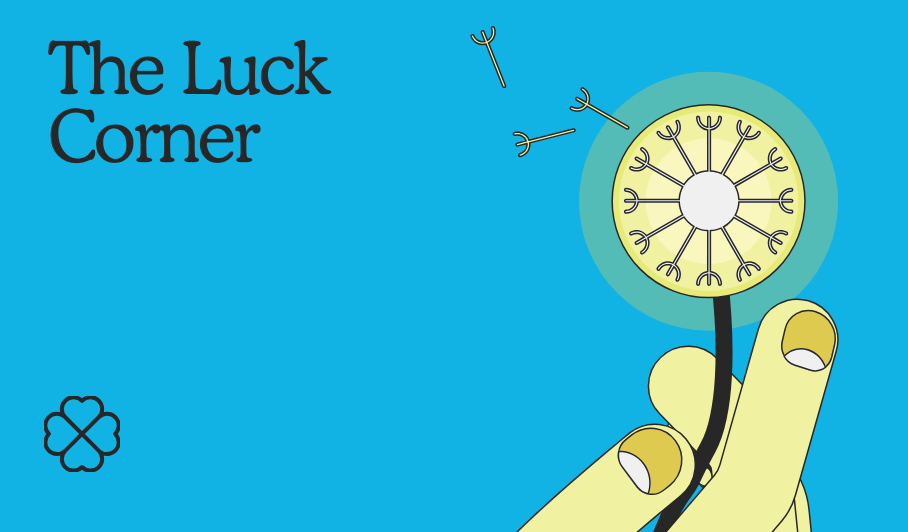
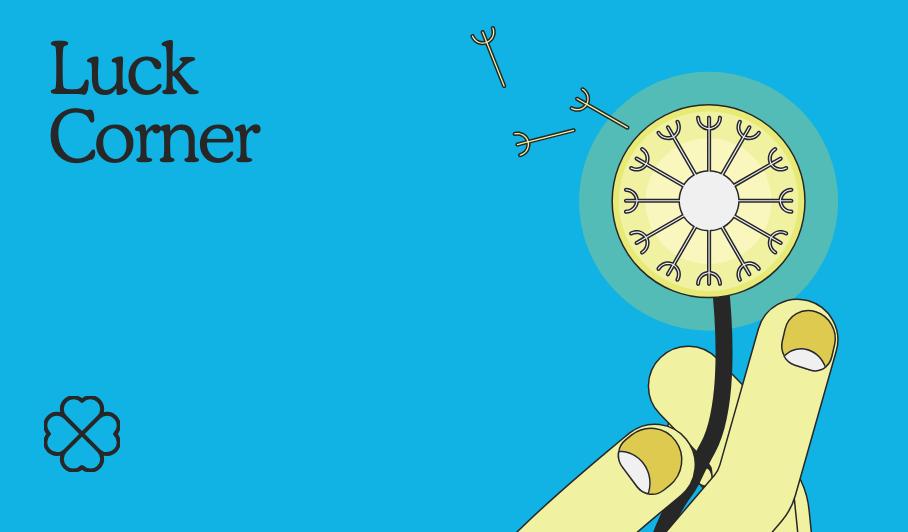
Rename to Luck Corner (no "The"): page title, share text and previews, settings, email

Changed region(s): [[0.0617, 0.0602, 0.37, 0.1805]]

diff --git a/index.html b/index.html
@@ -4,9 +4,9 @@
   <meta charset="utf-8">
   <meta name="viewport" content="width=device-width, initial-scale=1, viewport-fit=cover, user-scalable=no">
   <meta name="apple-mobile-web-app-capable" content="yes">
-  <meta name="apple-mobile-web-app-title" content="The Luck Corner">
+  <meta name="apple-mobile-web-app-title" content="Luck Corner">
   <meta name="theme-color" content="#f0f0f0">
-  <title>The Luck Corner</title>
+  <title>Luck Corner</title>
   <link rel="icon" href="favicon.svg" type="image/svg+xml">
   <link rel="icon" href="favicon-32.png" sizes="32x32" type="image/png">
   <link rel="apple-touch-icon" href="apple-touch-icon.png">
@@ -314,7 +314,7 @@
         <p class="settings--label">About</p>
         <div class="settings--group">
           <button type="button" class="settings--row" id="set-share">
-            <span>Share The Luck Corner</span>
+            <span>Share Luck Corner</span>
             <img class="settings--go" src="assets/mobile/chevron.svg" width="13.3333" height="7.33333" alt="">
           </button>
           <div class="settings--row">
@@ -518,7 +518,7 @@
   <script src="guest.js?v=1"></script>
   <script src="cards.js?v=187"></script>
   <script src="sounds.js?v=30"></script>
-  <script src="mobile.js?v=126"></script>
+  <script src="mobile.js?v=127"></script>
   <script src="tree.js?v=55"></script>
   <script src="splash.js?v=26"></script>
   <script src="onboarding.js?v=21"></script>

diff --git a/mobile.js b/mobile.js
@@ -1309,9 +1309,9 @@ function saveName(name) {
   if (!navigator.share) more.remove();
   let msg = null;
   const open = () => { sheet.classList.add('is-open'); sheet.setAttribute('aria-hidden', 'false'); };
-  // Settings' "Share The Luck Corner": the same sheet, for the app itself
+  // Settings' "Share Luck Corner": the same sheet, for the app itself
   window.shareApp = () => {
-    msg = { title: 'The Luck Corner', text: 'The Luck Corner: a little luck, every day.', url: `${location.origin}/` };
+    msg = { title: 'Luck Corner', text: 'Luck Corner: a little luck, every day.', url: `${location.origin}/` };
     open();
   };
   const close = () => { sheet.classList.remove('is-open'); sheet.setAttribute('aria-hidden', 'true'); };
@@ -1320,7 +1320,7 @@ function saveName(name) {
     const name = IMAGES[cards.indexOf(flip.card)];
     const title = cardName(name);
     msg = {
-      title: `${title} · The Luck Corner`,
+      title: `${title} · Luck Corner`,
       text: `${title}: ${(CARD_TEXT[name] || {}).about || 'a little luck, every day.'}`,
       url: `${location.origin}/c/${SHARE_SLUG[name]}.html`,
     };

diff --git a/api/verify.js b/api/verify.js
@@ -6,7 +6,7 @@
 const crypto = require('crypto');
 const { redis, connected, ipOf, bodyOf, limited, emailKey } = require('./_redis');
 const KEY = process.env.RESEND_API_KEY;
-const FROM = process.env.VERIFY_FROM || 'The Luck Corner <onboarding@resend.dev>';
+const FROM = process.env.VERIFY_FROM || 'Luck Corner <onboarding@resend.dev>';
 const EMAIL = /^\S+@\S+\.\S+$/;
 
 module.exports = async (req, res) => {
@@ -32,7 +32,7 @@ module.exports = async (req, res) => {
           from: FROM,
           to: [email],
           subject: `${code} is your Luck Corner code`,
-          text: `Your code for The Luck Corner is ${code}.\n\nIt works for 10 minutes. If you didn't ask for it, you can ignore this email.`,
+          text: `Your code for Luck Corner is ${code}.\n\nIt works for 10 minutes. If you didn't ask for it, you can ignore this email.`,
         }),
       });
       if (!sent.ok) return res.status(502).json({ error: 'The code couldn’t be sent.' });

diff --git a/c/flower.html b/c/flower.html
@@ -4,9 +4,9 @@
   <meta charset="utf-8">
   <meta name="viewport" content="width=device-width, initial-scale=1">
   <!-- A shared card: what Messages shows of it, then on to the card itself -->
-  <title>Love me, love me not · The Luck Corner</title>
-  <meta property="og:title" content="Love me, love me not · The Luck Corner">
-  <meta property="og:site_name" content="The Luck Corner">
+  <title>Love me, love me not · Luck Corner</title>
+  <meta property="og:title" content="Love me, love me not · Luck Corner">
+  <meta property="og:site_name" content="Luck Corner">
   <meta property="og:type" content="website">
   <meta property="og:url" content="https://luck-corner.vercel.app/c/flower.html">
   <meta property="og:image" content="https://luck-corner.vercel.app/assets/og/flower.png">

diff --git a/c/hito.html b/c/hito.html
@@ -4,9 +4,9 @@
   <meta charset="utf-8">
   <meta name="viewport" content="width=device-width, initial-scale=1">
   <!-- A shared card: what Messages shows of it, then on to the card itself -->
-  <title>Hito (人) on Palm · The Luck Corner</title>
-  <meta property="og:title" content="Hito (人) on Palm · The Luck Corner">
-  <meta property="og:site_name" content="The Luck Corner">
+  <title>Hito (人) on Palm · Luck Corner</title>
+  <meta property="og:title" content="Hito (人) on Palm · Luck Corner">
+  <meta property="og:site_name" content="Luck Corner">
   <meta property="og:type" content="website">
   <meta property="og:url" content="https://luck-corner.vercel.app/c/hito.html">
   <meta property="og:image" content="https://luck-corner.vercel.app/assets/og/hito.png">

diff --git a/c/buddha.html b/c/buddha.html
@@ -4,9 +4,9 @@
   <meta charset="utf-8">
   <meta name="viewport" content="width=device-width, initial-scale=1">
   <!-- A shared card: what Messages shows of it, then on to the card itself -->
-  <title>Buddha’s Belly · The Luck Corner</title>
-  <meta property="og:title" content="Buddha’s Belly · The Luck Corner">
-  <meta property="og:site_name" content="The Luck Corner">
+  <title>Buddha’s Belly · Luck Corner</title>
+  <meta property="og:title" content="Buddha’s Belly · Luck Corner">
+  <meta property="og:site_name" content="Luck Corner">
   <meta property="og:type" content="website">
   <meta property="og:url" content="https://luck-corner.vercel.app/c/buddha.html">
   <meta property="og:image" content="https://luck-corner.vercel.app/assets/og/buddha.png">

diff --git a/c/clover.html b/c/clover.html
@@ -4,9 +4,9 @@
   <meta charset="utf-8">
   <meta name="viewport" content="width=device-width, initial-scale=1">
   <!-- A shared card: what Messages shows of it, then on to the card itself -->
-  <title>Four-Leaf Clover · The Luck Corner</title>
-  <meta property="og:title" content="Four-Leaf Clover · The Luck Corner">
-  <meta property="og:site_name" content="The Luck Corner">
+  <title>Four-Leaf Clover · Luck Corner</title>
+  <meta property="og:title" content="Four-Leaf Clover · Luck Corner">
+  <meta property="og:site_name" content="Luck Corner">
   <meta property="og:type" content="website">
   <meta property="og:url" content="https://luck-corner.vercel.app/c/clover.html">
   <meta property="og:image" content="https://luck-corner.vercel.app/assets/og/clover.png">

diff --git a/c/candles.html b/c/candles.html
@@ -4,9 +4,9 @@
   <meta charset="utf-8">
   <meta name="viewport" content="width=device-width, initial-scale=1">
   <!-- A shared card: what Messages shows of it, then on to the card itself -->
-  <title>Blowing Candles · The Luck Corner</title>
-  <meta property="og:title" content="Blowing Candles · The Luck Corner">
-  <meta property="og:site_name" content="The Luck Corner">
+  <title>Blowing Candles · Luck Corner</title>
+  <meta property="og:title" content="Blowing Candles · Luck Corner">
+  <meta property="og:site_name" content="Luck Corner">
   <meta property="og:type" content="website">
   <meta property="og:url" content="https://luck-corner.vercel.app/c/candles.html">
   <meta property="og:image" content="https://luck-corner.vercel.app/assets/og/candles.png">

diff --git a/c/dandelion.html b/c/dandelion.html
@@ -4,9 +4,9 @@
   <meta charset="utf-8">
   <meta name="viewport" content="width=device-width, initial-scale=1">
   <!-- A shared card: what Messages shows of it, then on to the card itself -->
-  <title>Dandelion Wish · The Luck Corner</title>
-  <meta property="og:title" content="Dandelion Wish · The Luck Corner">
-  <meta property="og:site_name" content="The Luck Corner">
+  <title>Dandelion Wish · Luck Corner</title>
+  <meta property="og:title" content="Dandelion Wish · Luck Corner">
+  <meta property="og:site_name" content="Luck Corner">
   <meta property="og:type" content="website">
   <meta property="og:url" content="https://luck-corner.vercel.app/c/dandelion.html">
   <meta property="og:image" content="https://luck-corner.vercel.app/assets/og/dandelion.png">

diff --git a/c/teru-teru.html b/c/teru-teru.html
@@ -4,9 +4,9 @@
   <meta charset="utf-8">
   <meta name="viewport" content="width=device-width, initial-scale=1">
   <!-- A shared card: what Messages shows of it, then on to the card itself -->
-  <title>Teru Teru Bozu · The Luck Corner</title>
-  <meta property="og:title" content="Teru Teru Bozu · The Luck Corner">
-  <meta property="og:site_name" content="The Luck Corner">
+  <title>Teru Teru Bozu · Luck Corner</title>
+  <meta property="og:title" content="Teru Teru Bozu · Luck Corner">
+  <meta property="og:site_name" content="Luck Corner">
   <meta property="og:type" content="website">
   <meta property="og:url" content="https://luck-corner.vercel.app/c/teru-teru.html">
   <meta property="og:image" content="https://luck-corner.vercel.app/assets/og/teru-teru.png">

diff --git a/c/dreamcatcher.html b/c/dreamcatcher.html
@@ -4,9 +4,9 @@
   <meta charset="utf-8">
   <meta name="viewport" content="width=device-width, initial-scale=1">
   <!-- A shared card: what Messages shows of it, then on to the card itself -->
-  <title>Dreamcatcher · The Luck Corner</title>
-  <meta property="og:title" content="Dreamcatcher · The Luck Corner">
-  <meta property="og:site_name" content="The Luck Corner">
+  <title>Dreamcatcher · Luck Corner</title>
+  <meta property="og:title" content="Dreamcatcher · Luck Corner">
+  <meta property="og:site_name" content="Luck Corner">
   <meta property="og:type" content="website">
   <meta property="og:url" content="https://luck-corner.vercel.app/c/dreamcatcher.html">
   <meta property="og:image" content="https://luck-corner.vercel.app/assets/og/dreamcatcher.png">

diff --git a/c/stones.html b/c/stones.html
@@ -4,9 +4,9 @@
   <meta charset="utf-8">
   <meta name="viewport" content="width=device-width, initial-scale=1">
   <!-- A shared card: what Messages shows of it, then on to the card itself -->
-  <title>Stacking Stones · The Luck Corner</title>
-  <meta property="og:title" content="Stacking Stones · The Luck Corner">
-  <meta property="og:site_name" content="The Luck Corner">
+  <title>Stacking Stones · Luck Corner</title>
+  <meta property="og:title" content="Stacking Stones · Luck Corner">
+  <meta property="og:site_name" content="Luck Corner">
   <meta property="og:type" content="website">
   <meta property="og:url" content="https://luck-corner.vercel.app/c/stones.html">
   <meta property="og:image" content="https://luck-corner.vercel.app/assets/og/stones.png">
